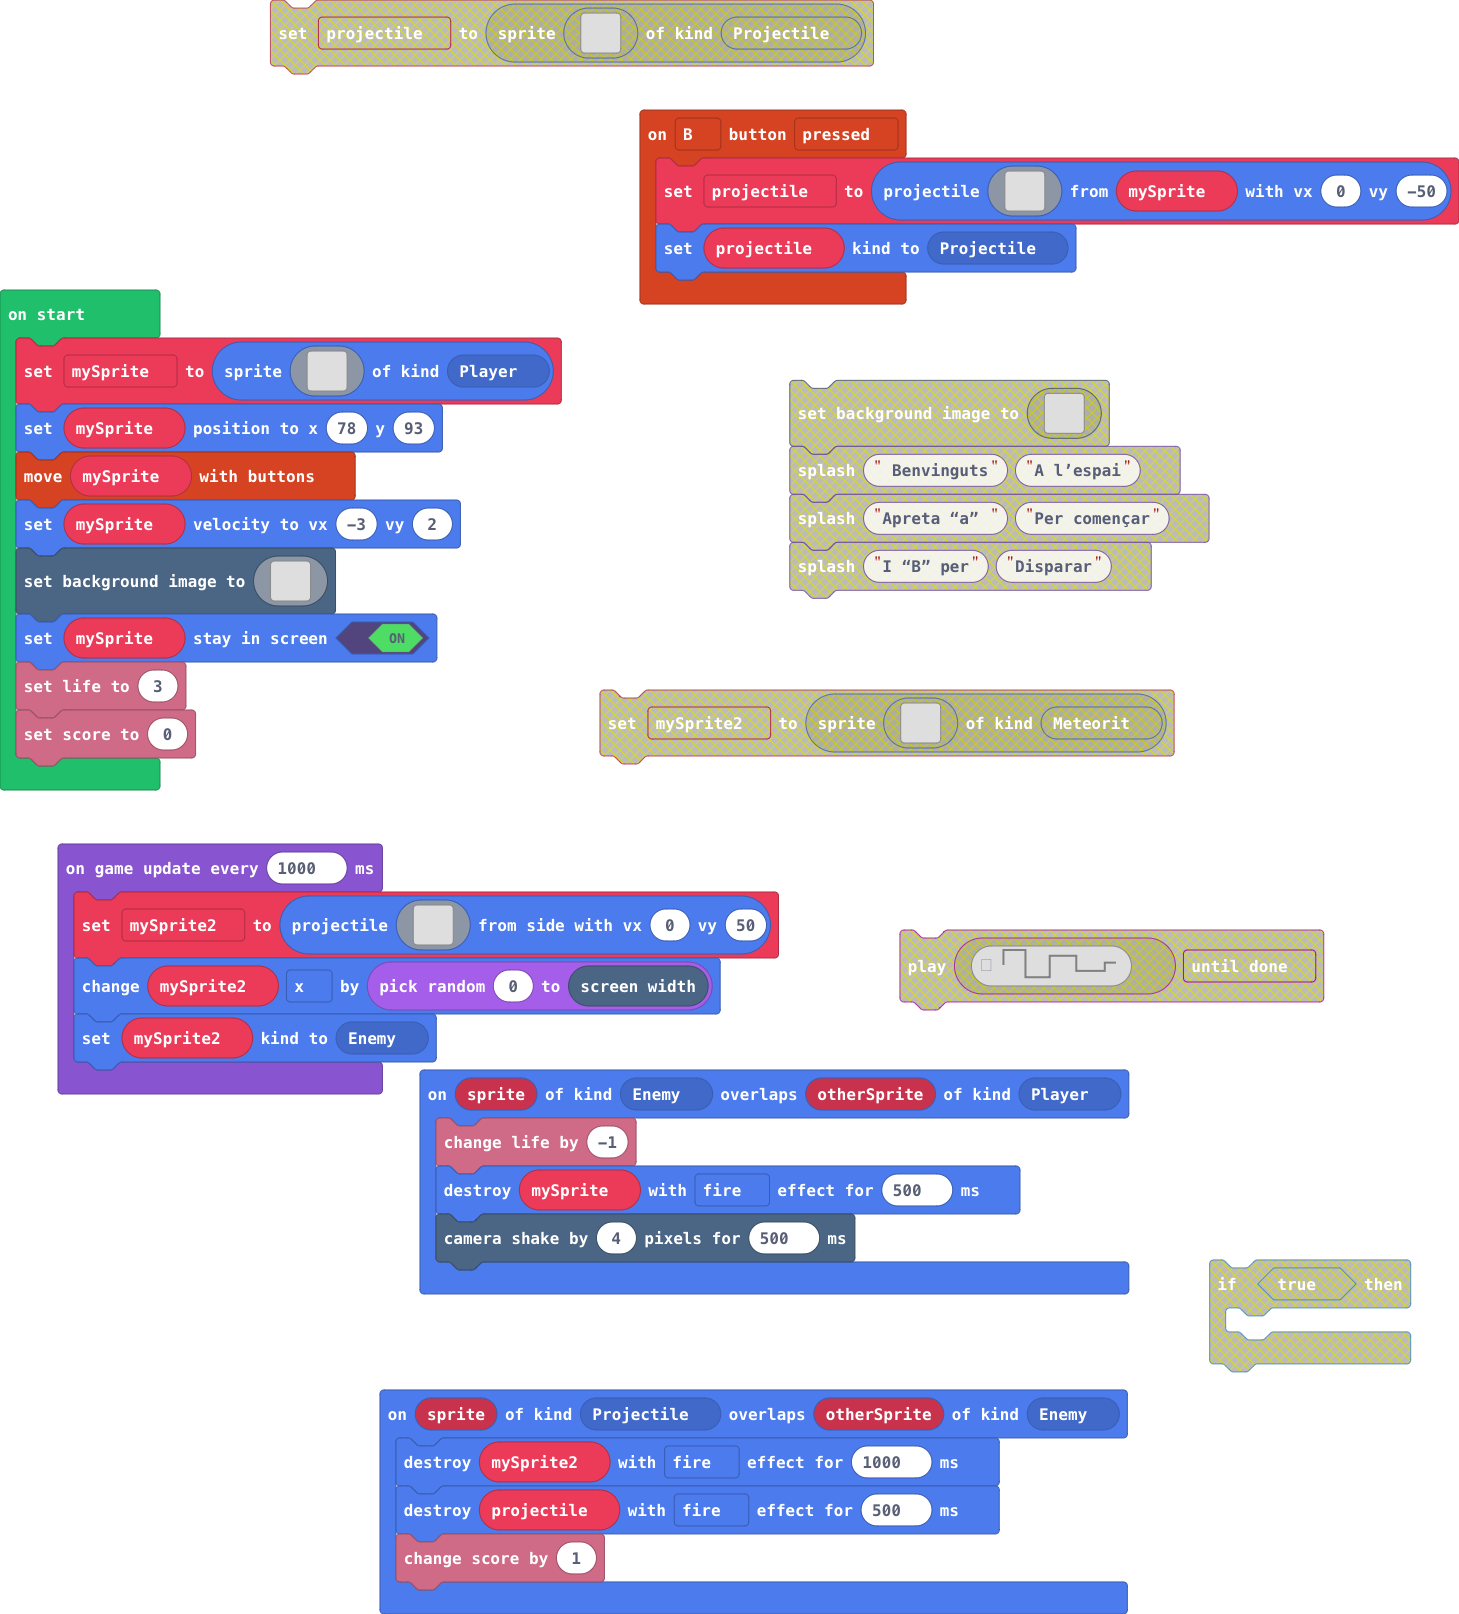
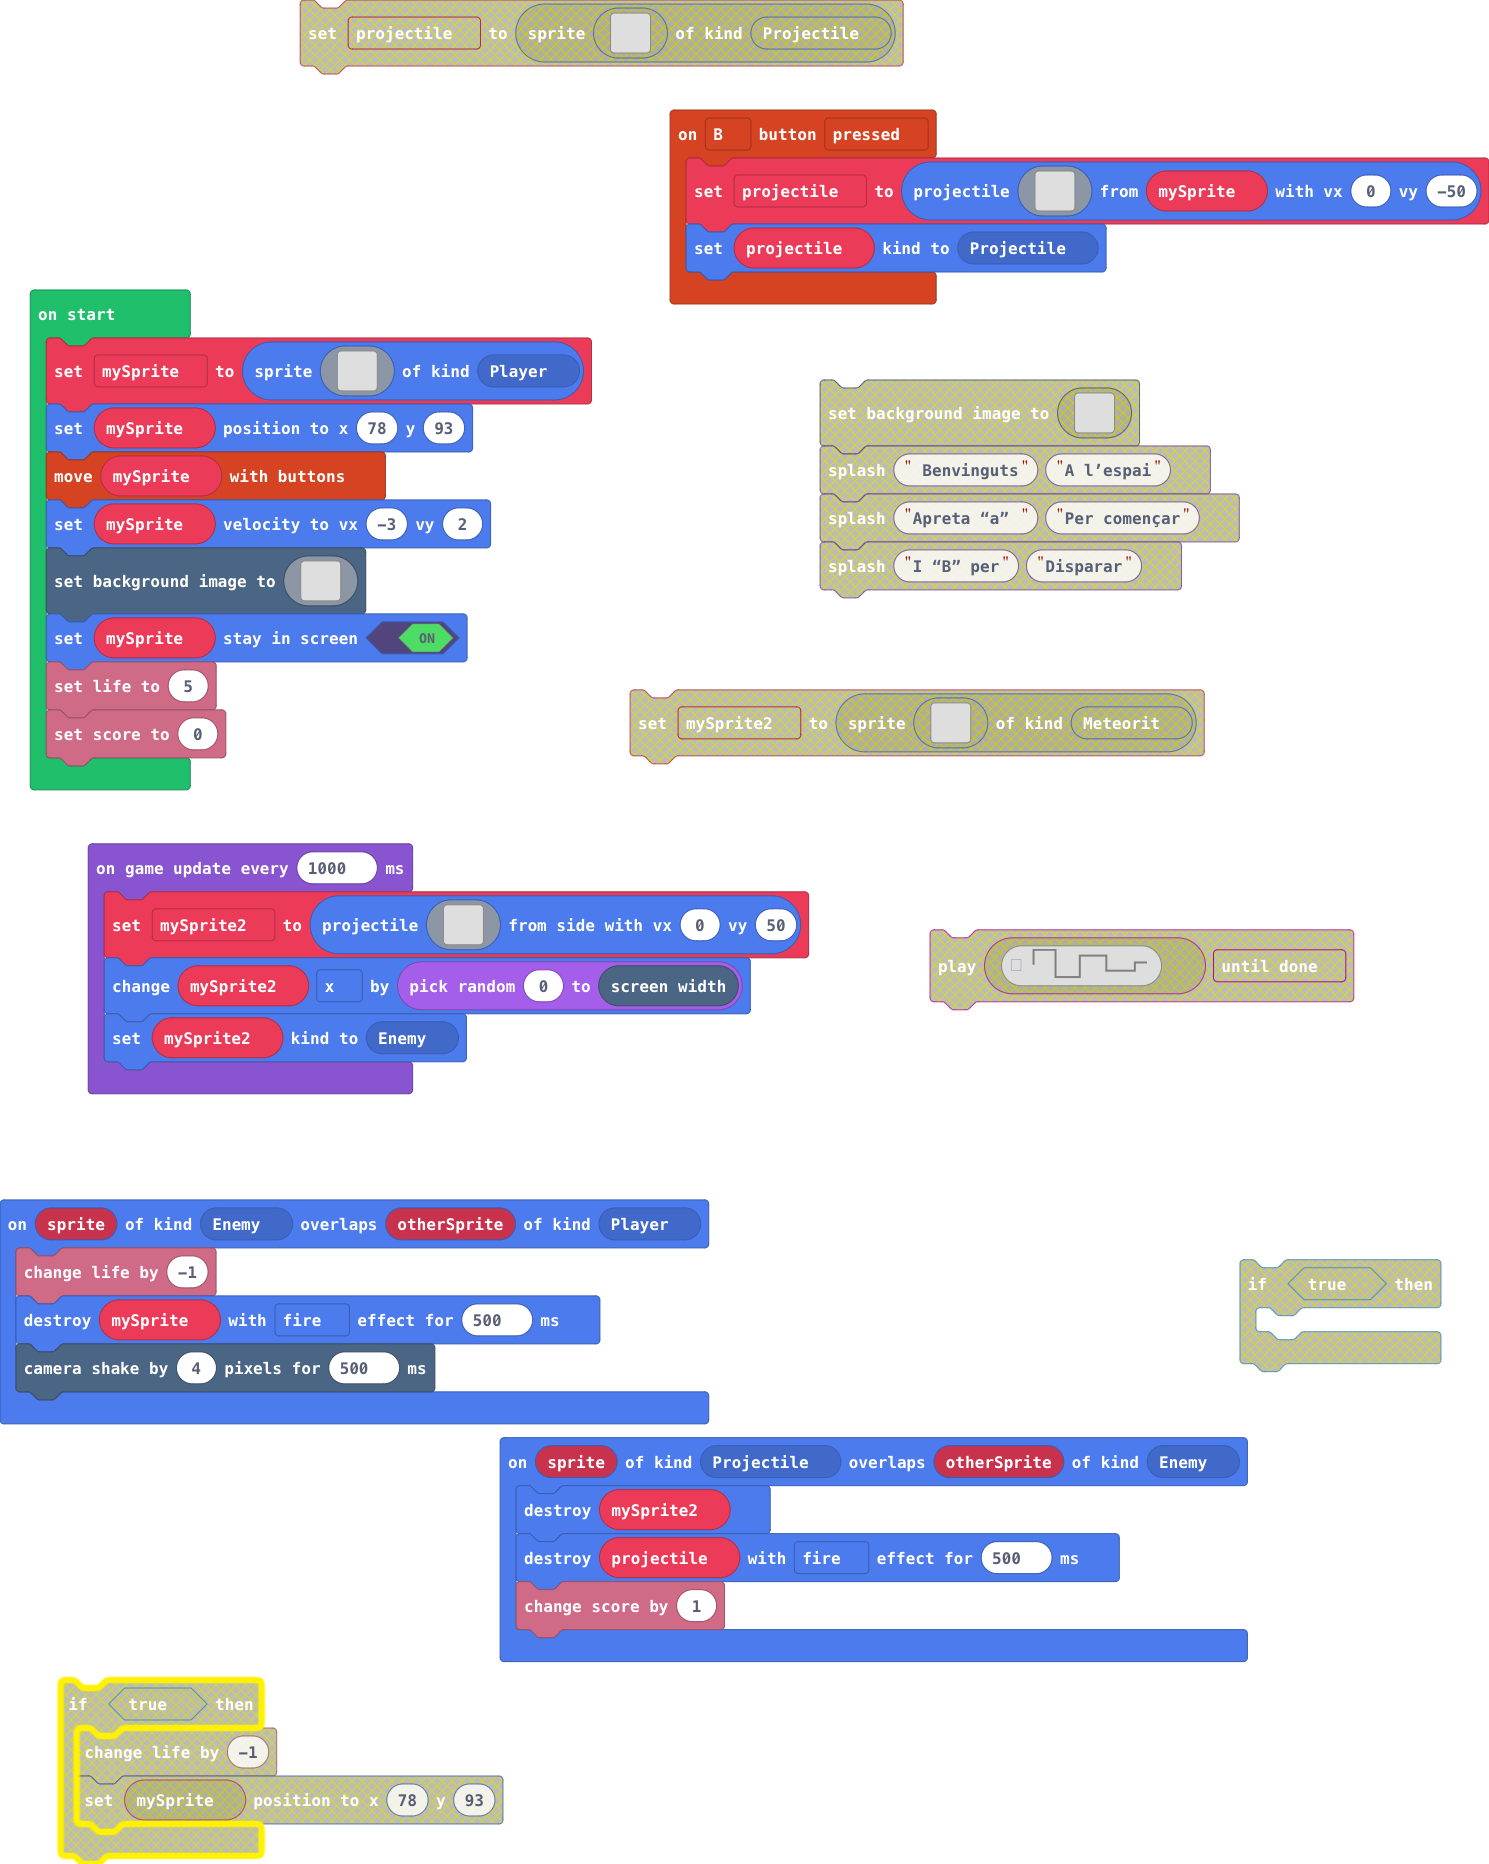
Update main.blocks, main.ts

diff --git a/main.ts b/main.ts
@@ -28,7 +28,7 @@ sprites.onOverlap(SpriteKind.Enemy, SpriteKind.Player, function (sprite, otherSp
     scene.cameraShake(4, 500)
 })
 sprites.onOverlap(SpriteKind.Projectile, SpriteKind.Enemy, function (sprite, otherSprite) {
-    sprites.destroy(mySprite2, effects.fire, 1000)
+    sprites.destroy(mySprite2)
     sprites.destroy(projectile, effects.fire, 500)
     info.changeScoreBy(1)
 })
@@ -162,7 +162,7 @@ scene.setBackgroundImage(img`
     8888888888888888888888888888888888888888888888888888888888888888888888888888888888888888888888888888888888888888888888888888888888888888888888888888888888888888
     `)
 mySprite.setStayInScreen(true)
-info.setLife(3)
+info.setLife(5)
 info.setScore(0)
 game.onUpdateInterval(1000, function () {
     mySprite2 = sprites.createProjectileFromSide(assets.image`Meteorit`, 0, 50)
